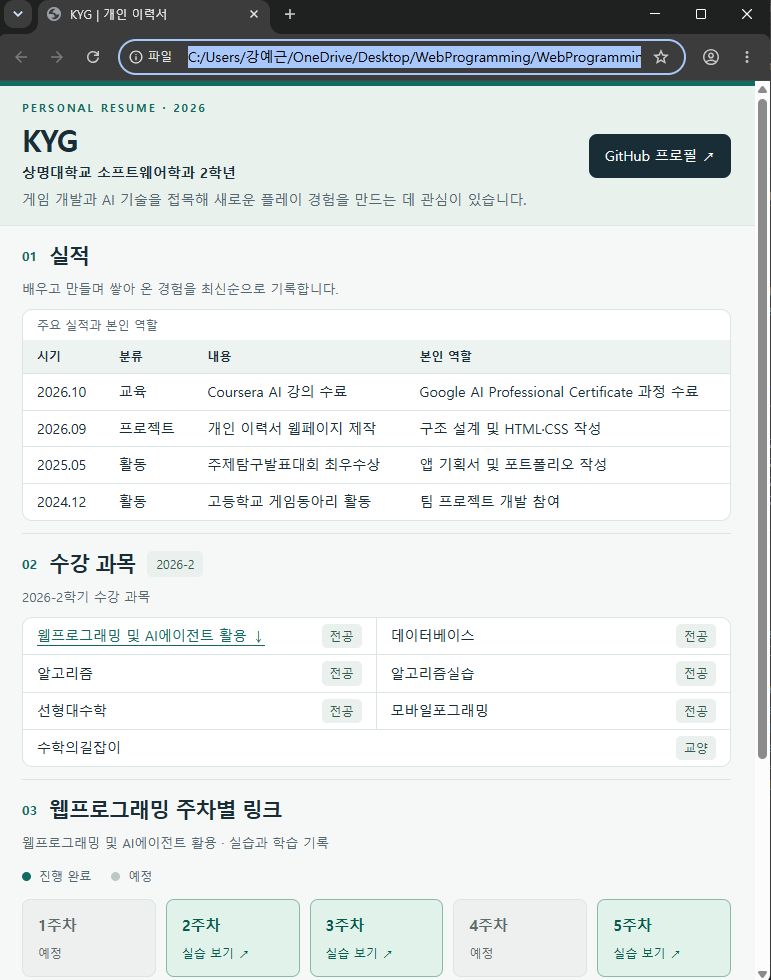
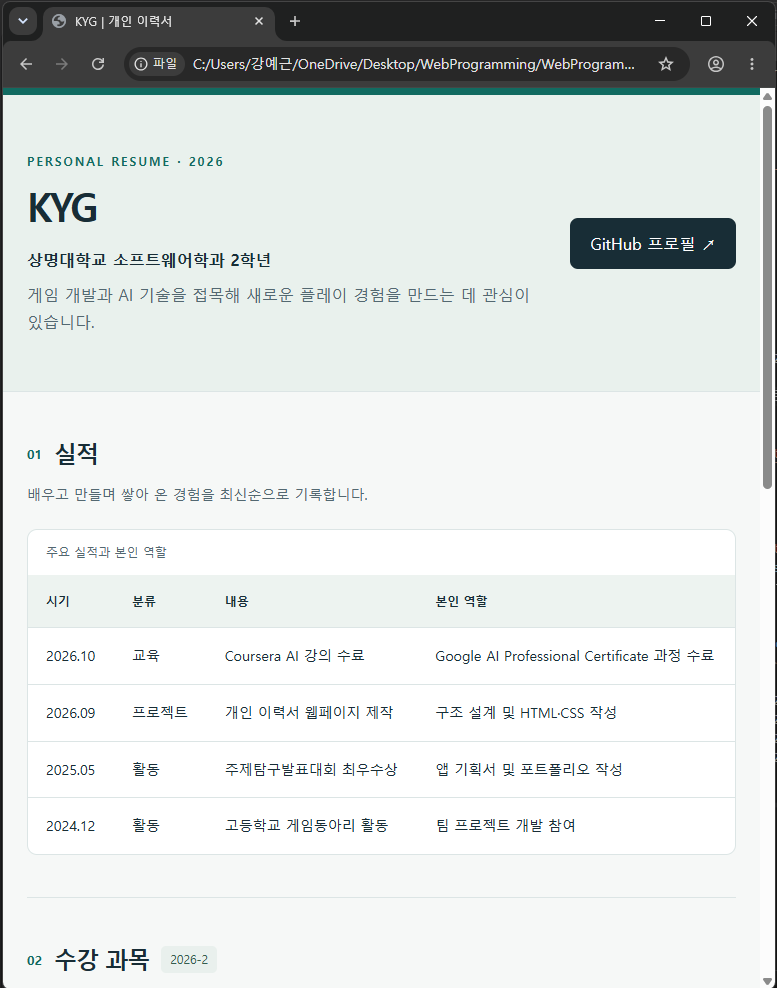
중간 과제 최종

diff --git a/index.html b/index.html
@@ -32,7 +32,7 @@
           <tbody>
             <tr><td><time datetime="2026-10">2026.10</time></td><td>교육</td><td>Coursera AI 강의 수료</td><td>Google AI Professional Certificate 과정 수료</td></tr>
             <tr><td><time datetime="2026-09">2026.09</time></td><td>프로젝트</td><td>개인 이력서 웹페이지 제작</td><td>구조 설계 및 HTML·CSS 작성</td></tr>
-            <tr><td><time datetime="2025-05">2025.05</time></td><td>활동</td><td>주제탐구발표대회 최우수상</td><td>앱 기획서 및 포트폴리오 작성</td></tr>
+            <tr><td><time datetime="2025-05">2025.05</time></td><td>수상</td><td>주제탐구발표대회 최우수상</td><td>앱 기획서 및 포트폴리오 작성</td></tr>
             <tr><td><time datetime="2024-12">2024.12</time></td><td>활동</td><td>고등학교 게임동아리 활동</td><td>팀 프로젝트 개발 참여</td></tr>
           </tbody>
         </table>
@@ -58,21 +58,21 @@
       <p class="section-description">웹프로그래밍 및 AI에이전트 활용 · 실습과 학습 기록</p>
       <p class="legend"><span class="done-dot" aria-hidden="true"></span> 진행 완료 <span class="planned-dot" aria-hidden="true"></span> 예정</p>
       <ol class="week-grid">
-        <li><a class="week planned" href="doc01.html"><strong>1주차</strong><span>예정</span></a></li>
+        <li><a class="week planned"><strong>1주차</strong><span>예정</span></a></li>
         <li><a class="week completed" href="doc01.html"><strong>2주차</strong><span>실습 보기 ↗</span></a></li>
         <li><a class="week completed" href="doc03.html"><strong>3주차</strong><span>실습 보기 ↗</span></a></li>
-        <li><div class="week planned"><strong>4주차</strong><span>예정</span></div></li>
+        <li><a class="week planned"><strong>4주차</strong><span>예정</span></a></li>
         <li><a class="week completed" href="doc04.html"><strong>5주차</strong><span>실습 보기 ↗</span></a></li>
         <li><a class="week completed" href="doc05.html"><strong>6주차</strong><span>실습 보기 ↗</span></a></li>
         <li><a class="week completed" href="doc06.html"><strong>7주차</strong><span>실습 보기 ↗</span></a></li>
-        <li><div class="week planned"><strong>8주차</strong><span>예정</span></div></li>
-        <li><div class="week planned"><strong>9주차</strong><span>예정</span></div></li>
-        <li><div class="week planned"><strong>10주차</strong><span>예정</span></div></li>
-        <li><div class="week planned"><strong>11주차</strong><span>예정</span></div></li>
-        <li><div class="week planned"><strong>12주차</strong><span>예정</span></div></li>
-        <li><div class="week planned"><strong>13주차</strong><span>예정</span></div></li>
-        <li><div class="week planned"><strong>14주차</strong><span>예정</span></div></li>
-        <li><div class="week planned"><strong>15주차</strong><span>예정</span></div></li>
+        <li><a class="week planned"><strong>8주차</strong><span>예정</span></a></li>
+        <li><a class="week planned"><strong>9주차</strong><span>예정</span></a></li>
+        <li><a class="week planned"><strong>10주차</strong><span>예정</span></a></li>
+        <li><a class="week planned"><strong>11주차</strong><span>예정</span></a></li>
+        <li><a class="week planned"><strong>12주차</strong><span>예정</span></a></li>
+        <li><a class="week planned"><strong>13주차</strong><span>예정</span></a></li>
+        <li><a class="week planned"><strong>14주차</strong><span>예정</span></a></li>
+        <li><a class="week planned"><strong>15주차</strong><span>예정</span></a></li>
       </ol>
     </section>
   </main>

diff --git a/style.css b/style.css
@@ -55,49 +55,3 @@ td:first-child { white-space: nowrap; font-variant-numeric: tabular-nums; }
 }
 @media (max-width: 380px) { .week-grid { grid-template-columns: repeat(2, 1fr); } }
 @media (prefers-reduced-motion: reduce) { html { scroll-behavior: auto; } }
-
-/* Compact desktop layout: preserve the original theme and HTML. */
-.page-header { padding: 20px 0; border-top-width: 5px; }
-.header-layout { gap: 24px; }
-.eyebrow { font-size: 11px; margin-bottom: 5px; }
-h1 { font-size: 34px; letter-spacing: -1px; margin-bottom: 6px; }
-.affiliation { font-size: 14px; margin-bottom: 4px; }
-.intro { font-size: 14px; }
-.github-link { padding: 10px 16px; font-size: 14px; }
-section { padding: 19px 0; }
-h2 { font-size: 21px; }
-.section-description { font-size: 13px; margin: 5px 0 11px; }
-caption { padding: 6px 14px; }
-th, td { padding: 9px 14px; }
-.course-list { display: grid; grid-template-columns: repeat(2, minmax(0, 1fr)); overflow: hidden; }
-.course-list li { padding: 9px 14px; gap: 10px; font-size: 14px; min-width: 0; }
-.course-list li:nth-child(odd) { border-right: 1px solid var(--line); }
-.course-list li:last-child { grid-column: 1 / -1; border-right: 0; }
-.course-list a, .course-list li > span:first-child { overflow-wrap: anywhere; }
-.badge { padding: 2px 8px; }
-.week-grid { margin-top: 12px; gap: 10px; }
-.week { padding: 13px 15px; gap: 5px; }
-@media (max-width: 700px) {
-  .page-header { padding: 24px 0; }
-  .header-layout { gap: 16px; }
-  h1 { font-size: 32px; }
-  section { padding: 24px 0; }
-  .course-list { grid-template-columns: 1fr; }
-  .course-list li { flex-direction: row; align-items: center; padding: 12px 14px; }
-  .course-list li:nth-child(odd) { border-right: 0; }
-  .course-list li:last-child { grid-column: auto; }
-}
-@media (max-width: 380px) {
-  .course-list li { flex-direction: column; align-items: flex-start; gap: 6px; }
-}
-/* Fit the full course list within a 1280 x 720 CSS-pixel viewport. */
-@media (min-width: 701px) {
-  .page-header { padding: 13px 0; }
-  .eyebrow { margin-bottom: 3px; }
-  h1 { font-size: 30px; margin-bottom: 4px; }
-  section { padding: 12px 0; }
-  .section-description { margin: 4px 0 9px; }
-  caption { padding: 5px 14px; }
-  th, td { padding: 6px 14px; }
-  .course-list li { padding: 6px 14px; }
-}

diff --git a/REPORT.md b/REPORT.md
@@ -6,56 +6,34 @@
 | 배포 URL | https://kyg.smu.ai.kr/ |
 | 작성일 | 2026-10-20 |
 
-> 현재 파일은 작성용 초안입니다. 예시 내용을 실제 정보로 교체하고 배포한 뒤 직접 검수하세요. 미검수는 제출용 최종 결과가 아니며, 최종본에는 Pass 또는 Fail (수용 기준 번호)을 적습니다. 실명·학번 등 개인정보는 본문과 캡처에 넣지 않습니다.
-
 ## 1. 인수 검수표
 
 | ID | 확인 방법 | 결과 | 근거 |
 |---|---|---|---|
-| F-01 | 1280px 창의 첫 화면에서 ① header의 활동명 ② 지정 소속 ③ 관심 분야를 담은 1문장·50자 이내 소개 ④ 스크롤 없이 모두 보이는지 확인 | 미검수 | (images\F-01.png) |
-| F-02 | ① header 또는 footer의 GitHub 프로필 링크가 1개인지 ② 클릭하면 본인 프로필로 이동하는지 ③ 페이지 전체에 이메일·전화번호 등 다른 연락처가 없는지 확인 | 미검수 | (캡처 경로) |
-| F-03 | ① 사실에 기반한 실적 4건 이상·중고등학교 실적 1건 이상인지 ② 각 행의 YYYY.MM·분류·내용·역할 ③ 지정된 5개 분류 중 하나인지 ④ 최신순인지 ⑤ table 요소인지 확인 | 미검수 | (캡처 경로) |
-| F-04 | ① 실제 2026-2 수강 과목 전체와 목록 대조 ② 각 과목명·전공/교양 표시 확인 ③ 웹프로그래밍 및 AI에이전트 활용 링크를 클릭하여 F-05 영역 이동 확인 | 미검수 | (캡처 경로) |
-| F-05 | ① 1~15주차 표시 ② 진행한 모든 주차의 링크를 클릭하여 실제 실습 페이지 확인 ③ 미진행 주차는 예정 표시·링크 없음 확인 ④ 완료/예정 색 구분 확인 | 미검수 | (캡처 경로) |
-| F-06 | ① footer의 최종 수정일: YYYY-MM-DD 형식 확인 ② 배포 저장소의 마지막 커밋 날짜와 대조 | 미검수 | (페이지 및 커밋 날짜 캡처) |
-| Q-HTML | W3C HTML 검사기(https://validator.w3.org/)로 배포 URL 검사, 오류 0건과 문서 기본 정보·의미 있는 요소 확인 | 미검수 | (검사 결과 캡처) |
-| Q-CSS | W3C CSS 검사기(https://jigsaw.w3.org/css-validator/)로 검사 + 인라인 style 사용 여부 확인 + 창 크기 변경 확인 | 미검수 | (검사 결과 및 화면 캡처) |
-| Q-DEPLOY | 배포 URL에서 모든 링크 클릭, 모든 이미지 표시 확인 | 미검수 | (배포 화면 캡처) |
+| F-01 | 1280px 창의 첫 화면에서 ① header의 활동명 ② 지정 소속 ③ 관심 분야를 담은 1문장·50자 이내 소개 ④ 스크롤 없이 모두 보이는지 확인 | Pass | (images\F-01.png) |
+| F-02 | ① header 또는 footer의 GitHub 프로필 링크가 1개인지 ② 클릭하면 본인 프로필로 이동하는지 ③ 페이지 전체에 다른 개인정보가 없는지 확인 | Pass | (images\F-02.png) |
+| F-03 | ① 사실에 기반한 실적 4건 이상·중고등학교 실적 1건 이상인지 ② 각 행의 YYYY.MM·분류·내용·역할 ③ 지정된 4개 분류 중 하나인지 ④ 최신순인지 ⑤ table 요소인지 확인 | Pass | (images\F-03.png) |
+| F-04 | ① 실제 2026-2 수강 과목 전체와 목록 대조 ② 각 과목명·전공/교양 표시 확인 ③ 웹프로그래밍 및 AI에이전트 활용 링크를 클릭하여 F-05 영역 이동 확인 | Pass | (images\F-04_1.png, images\F-04_1.png) |
+| F-05 | ① 1~15주차 표시 ② 진행한 모든 주차의 링크를 클릭하여 실제 실습 페이지 확인 ③ 미진행 주차는 예정 표시·링크 없음 확인 ④ 완료/예정 색 구분 확인 | Fail(2) | (images\F-05) |
+| F-06 | ① footer의 최종 수정일: YYYY-MM-DD 형식 확인 ② 배포 저장소의 마지막 커밋 날짜와 대조 | Pass | (images\F-06.png) |
+| Q-HTML | W3C HTML 검사기(https://validator.w3.org/)로 배포 URL 검사, 오류 0건과 문서 기본 정보·의미 있는 요소 확인 | Pass | (images\Q-HTML.png) |
+| Q-CSS | W3C CSS 검사기(https://jigsaw.w3.org/css-validator/)로 검사 + 인라인 style 사용 여부 확인 + 창 크기 변경 확인 | Pass | (images\Q-CSS.png) |
+| Q-DEPLOY | 배포 URL에서 모든 링크 클릭, 모든 이미지 표시 확인 | Pass | (images\Q-DEPLOY.png) |
 
 ## 2. 완성도 분석
 
 **완성도 = 충족(Pass)한 요구사항 수 ÷ 평가 대상 요구사항 수(9) = (검수 후 입력) / 9 = (검수 후 입력)%**
 
-미검수 상태이므로 현재 완성도는 산정하지 않았습니다.
+8 ÷ 9 = 88.9%
+
 
 ### 요구사항과 결과가 다른 부분
 
 | ID | 수용 기준 | 실제 결과 | 원인 |
 |---|---|---|---|
-| F-02 | 본인 GitHub 프로필로 이동 | 교체용 URL이 입력되어 있음 | 본인 GitHub 정보 입력 전 |
-| F-03 | 실제 실적 4건 이상 | 예시 실적 4건 | 실제 실적 입력 전 |
-| F-04 | 이번 학기 수강 과목 모두 표시 | 교체용 과목 목록 | 실제 시간표 입력 전 |
-| F-05 | 진행 주차는 실습 페이지로 연결 | 15주 모두 예정으로 초기화 | 실제 실습 진행 현황과 URL 입력 전 |
-| F-06 | 마지막 커밋 날짜와 일치 | 템플릿 작성일 표시 | 배포 저장소와 대조 전 |
+| F-05 | 진행 주차는 실습 페이지로 연결 | 링크를 클릭해도 페이지가 넘어가지 않음 | div 태그에 href를 사용함 |
 
-위 내용은 초안의 알려진 미완성 사항입니다. 제출 전 실제 검수 결과로 수정하세요.
 
 ### 다음에 다르게 할 점
 
-(직접 검수하며 발견한 문제와 다음 작업에서 개선할 방법을 작성)
-
-## 3. 추가 요구사항 제안 (선택 – 가산점)
-
-선택 사항입니다. 추가한다면 본인이 정의·구현·검수한 내용으로 아래 표를 채우세요.
-
-### 요구사항 정의
-
-| ID | 요구사항 | 제안 이유 | 수용 기준 |
-|---|---|---|---|
-| A-01 | (직접 작성) | (직접 작성) | ① (객관적인 확인 기준) ② (객관적인 확인 기준) |
-
-### 검수
-
-| ID | 확인 방법 | 결과 | 근거 |
-|---|---|---|---|
-| A-01 | (직접 작성) | 미검수 | (캡처 경로) |
+링크를 미리 제공하지 않아, AI가 임의로 div 태그를 사용하였다. 앞으로 링크를 거는 경우, url을 프롬프트에 포함시키거나 임시 url을 만들어 사용하게 한다.
